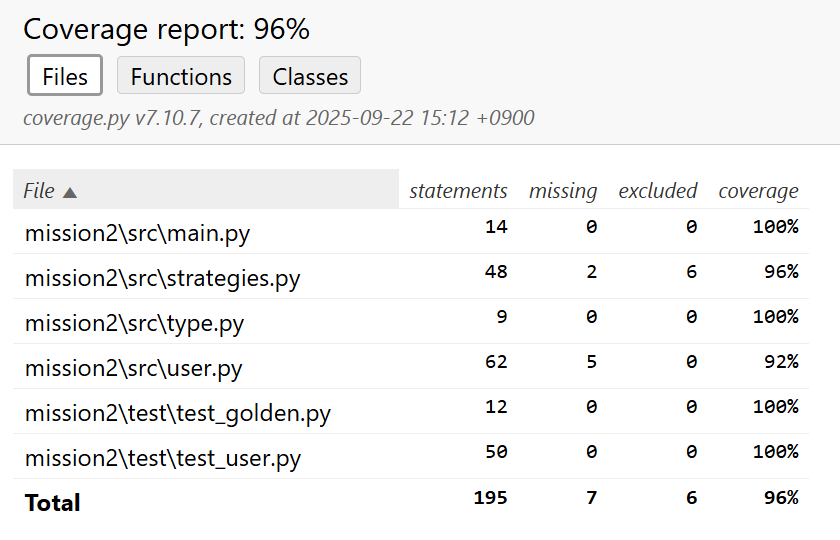
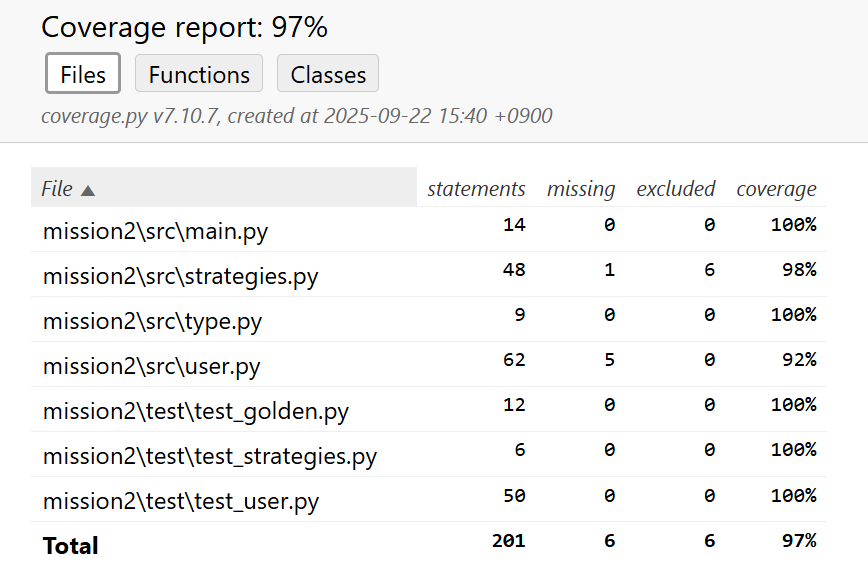
업데이트 README.md

diff --git a/mission2/test/test_strategies.py b/mission2/test/test_strategies.py
@@ -1,0 +1,17 @@
+import pytest
+
+from mission2.src.strategies import Grade
+
+
+@pytest.mark.parametrize("grade, point", [
+    (Grade("GOLD", 50), 70),
+    (Grade("SILVER", 30, 50),40),
+    (Grade("NORMAL", 0, 30),10),
+    (Grade("NOT_YET",None,100),90)
+])
+def test_does_meat(grade, point):
+    # Act
+    result = grade.does_meet(point)
+
+    # Assert
+    assert result == True

diff --git a/README.md b/README.md
@@ -28,8 +28,7 @@ D4 - 리팩토링에 디자인 패턴을 적용한다.
 D5 - 리팩토링이 끝난 코드에, 코드 커버리지가 100% 되어야 한다.
 ![img.png](coverage_total.png)
 
-92%, 96%는 도달하면 안되는 영역
-![img.png](coverate_strategies.png)
-[stragegies.py](./mission2/src/strategies.py) 45번째 줄은 현재 사용하지 않는게 맞으나 미리 구현함
+92%, 98%는 도달하면 안되는 영역
+![img.png](coverage_strategies.png)
 ![img.png](coverage_user_1.png)
 ![img.png](coverage_user_2.png)
